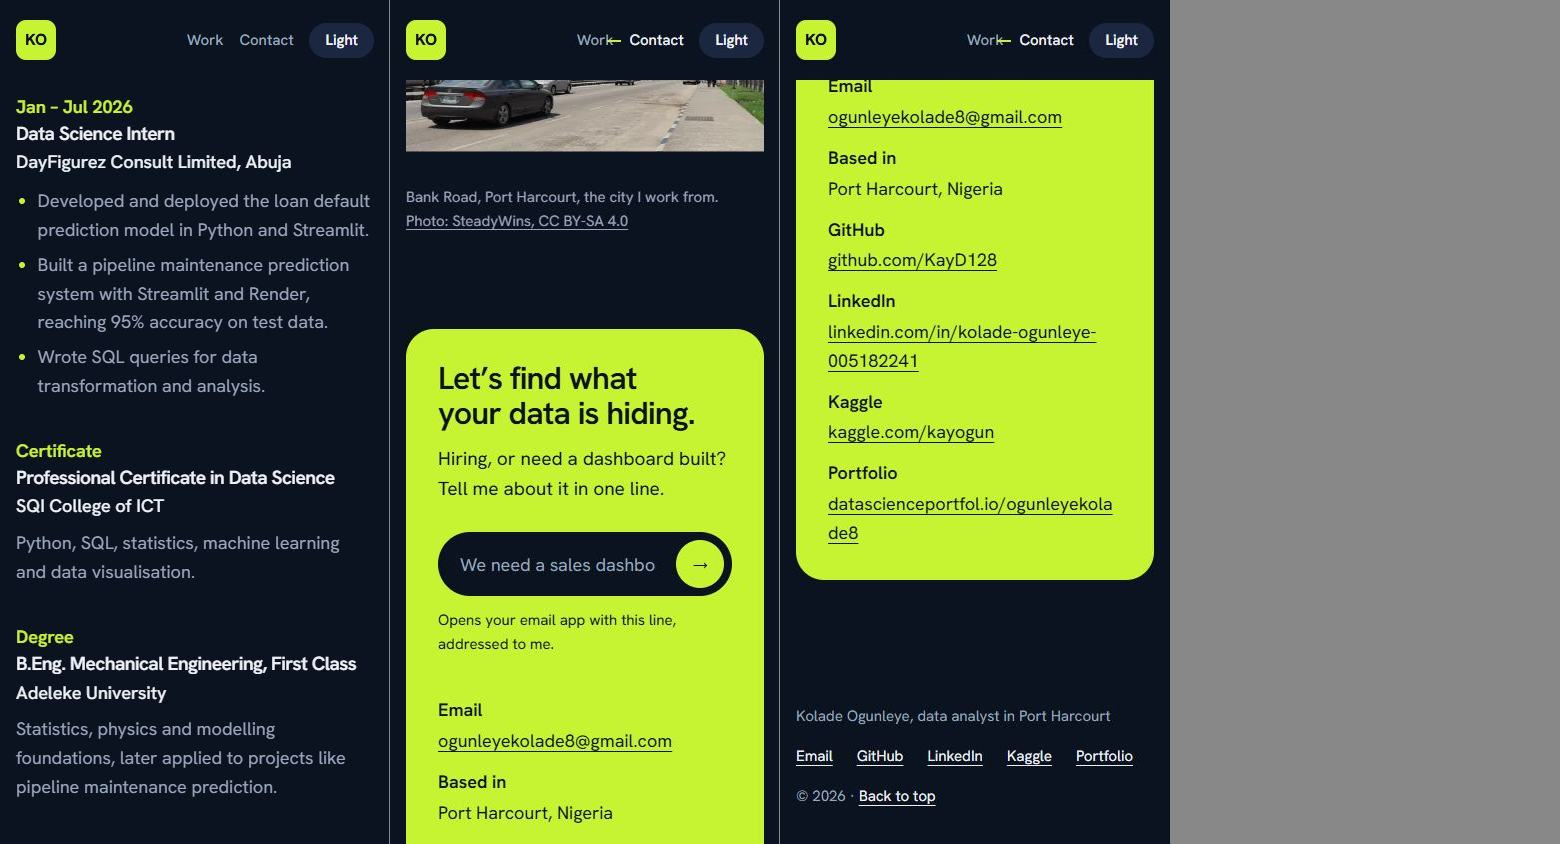
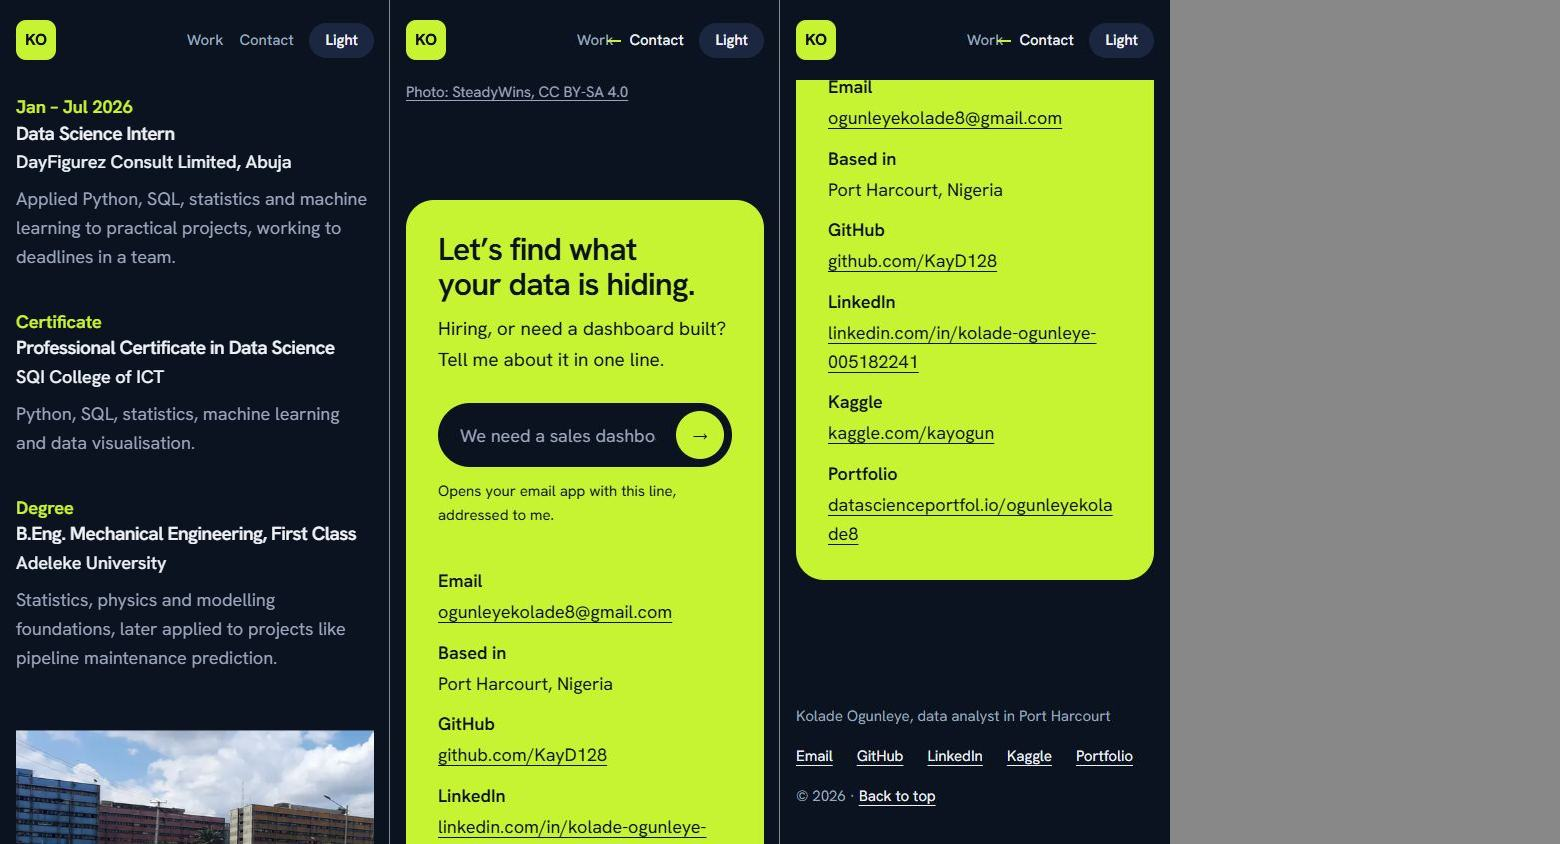
good

diff --git a/kolade-portfolio/app/page.tsx b/kolade-portfolio/app/page.tsx
@@ -27,11 +27,7 @@ const experience: { when: string; title: string; org: string; text?: string; lis
     when: "Jan – Jul 2026",
     title: "Data Science Intern",
     org: "DayFigurez Consult Limited, Abuja",
-    list: [
-      "Developed and deployed the loan default prediction model in Python and Streamlit.",
-      "Built a pipeline maintenance prediction system with Streamlit and Render, reaching 95% accuracy on test data.",
-      "Wrote SQL queries for data transformation and analysis.",
-    ],
+    text: "Applied Python, SQL, statistics and machine learning to practical projects, working to deadlines in a team.",
   },
   { when: "Certificate", title: "Professional Certificate in Data Science", org: "SQI College of ICT", text: "Python, SQL, statistics, machine learning and data visualisation." },
   { when: "Degree", title: "B.Eng. Mechanical Engineering, First Class", org: "Adeleke University", text: "Statistics, physics and modelling foundations, later applied to projects like pipeline maintenance prediction." },
